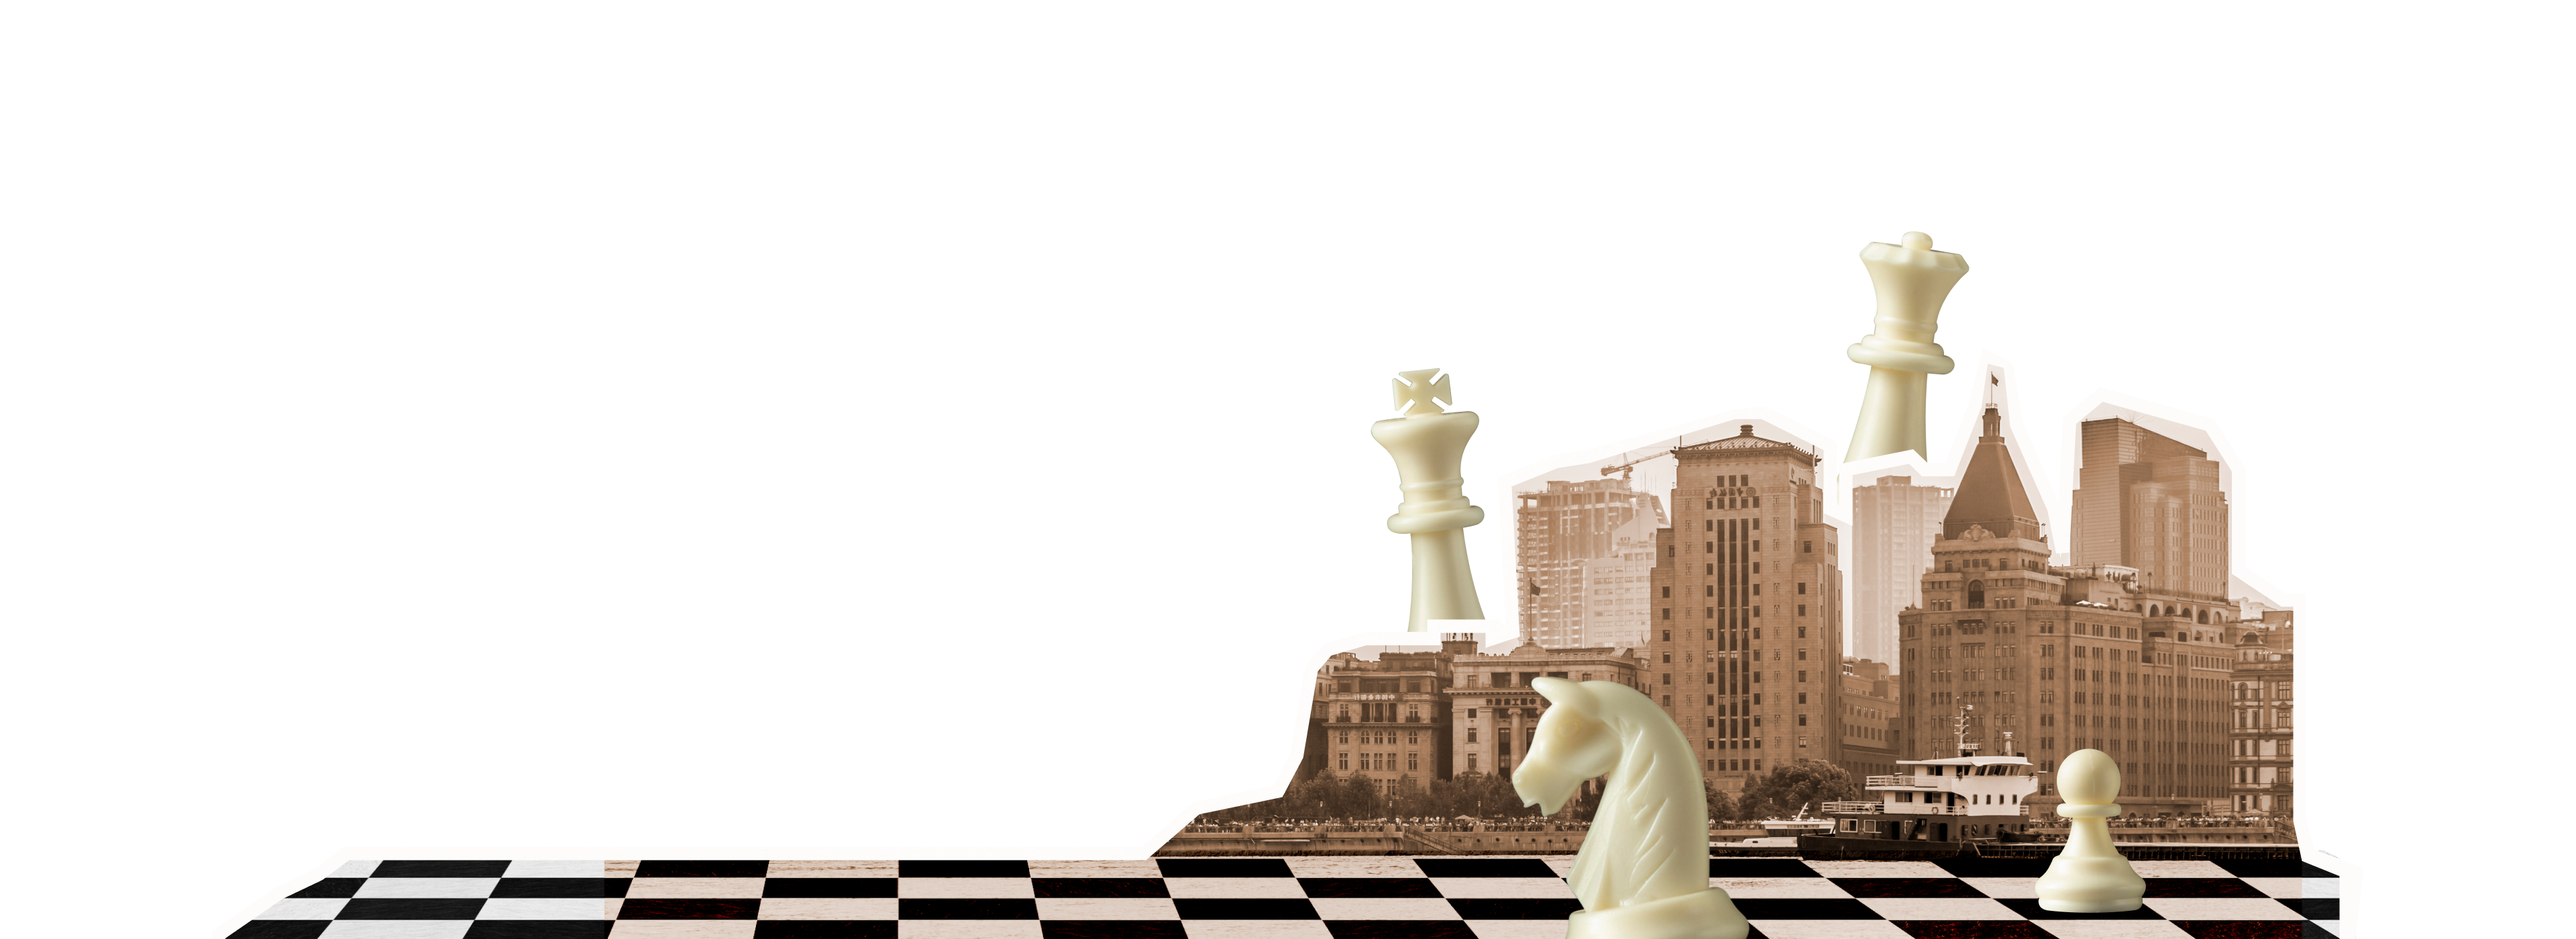
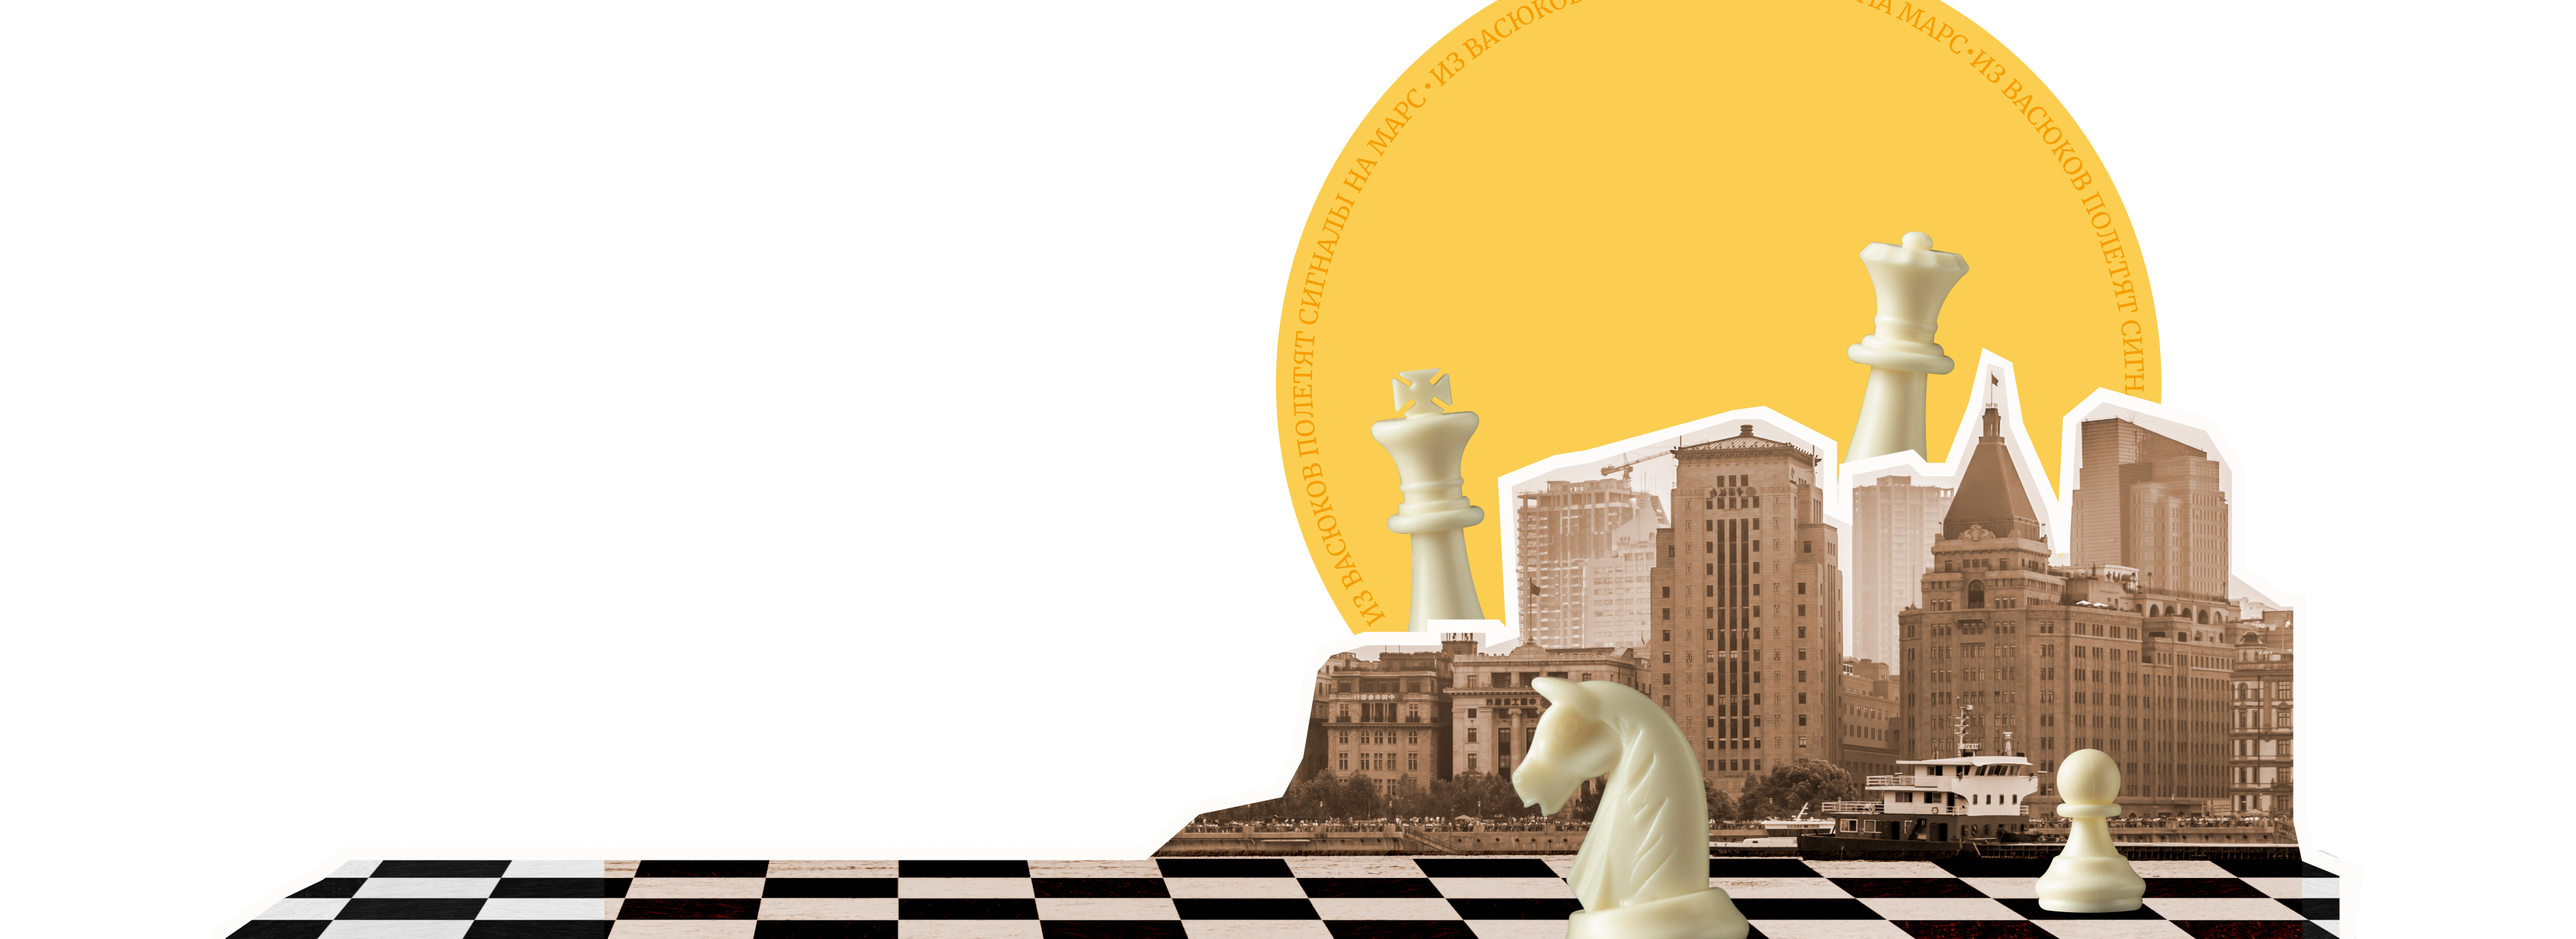
bg

Changed region(s): [[0.4688, 0.0, 0.8438, 0.6757]]

diff --git a/css/styles.css b/css/styles.css
@@ -19,26 +19,21 @@
 }
 
 .top {
-  --top-city-img-aspect-ratio: 2.743;
   position: relative;
   overflow: hidden;
   background: var(--color-bg-theme);
-  background-size: var(--top-city-img-width)
-    calc(var(--top-city-img-width) / var(--top-city-img-aspect-ratio));
   @media (orientation: portrait) {
-    --top-city-img-width: 860px;
     background-image: url("/img/top-bg-mobile.png");
     background-position: center bottom;
     background-repeat: no-repeat;
     background-size: contain;
   }
   @media (orientation: landscape) {
-    --top-city-img-width: 1920px;
     background-image: url("/img/city.png");
-    background-position: center bottom;
-    background-size: contain;
+    background-position: center top;
+    background-size: cover;
     background-repeat: no-repeat;
-    background-size: 1920px 700px;
+    background-size: calc(100vh * 2.743) 100vh;
   }
 }
 
